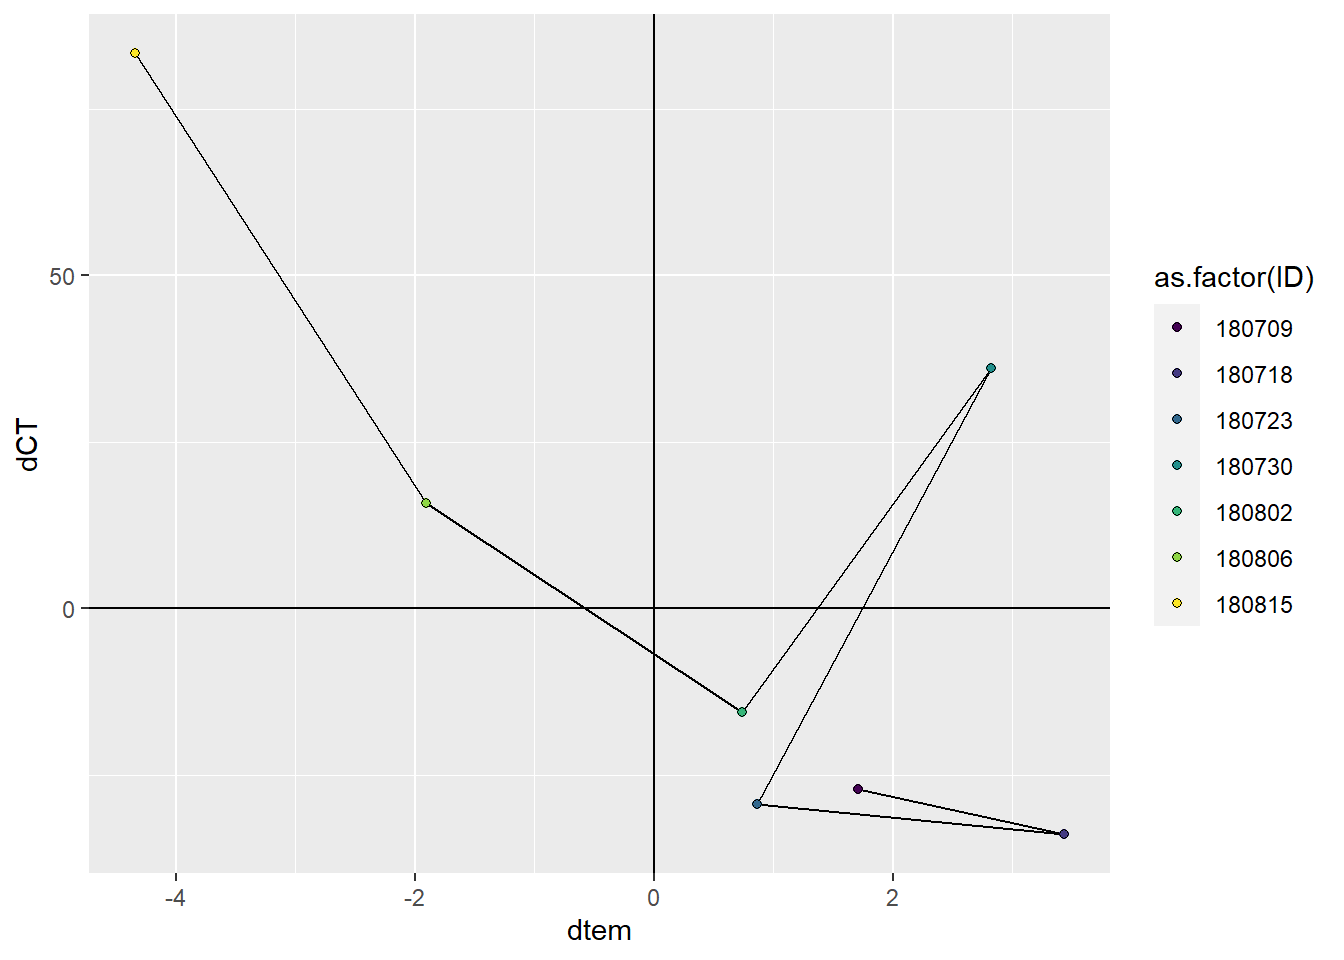
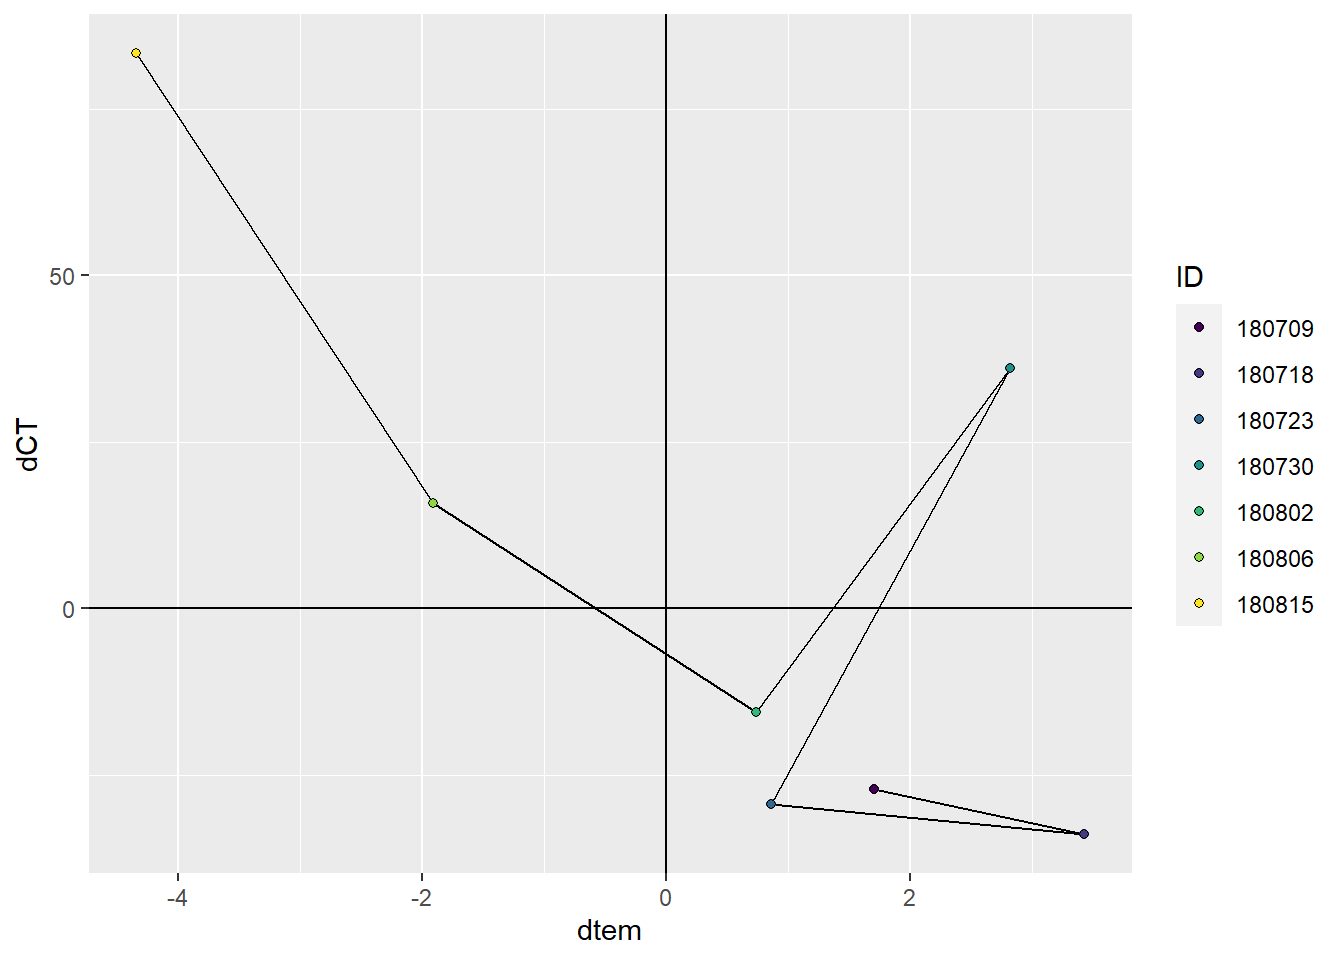
Build site.

diff --git a/docs/BloomSail_dT.html b/docs/BloomSail_dT.html
@@ -560,10 +560,10 @@ This reproducible <a href="http://rmarkdown.rstudio.com">R Markdown</a> analysis
 <div class="panel panel-default">
 <div class="panel-heading">
 <p class="panel-title">
-<a data-toggle="collapse" data-parent="#workflowr-checks" href="#strongRepositoryversionstrongahrefhttpsgithubcomjensdanielmuellerBloomSailtree1ebd01a942fe9692198b910ad2d6bb940cded9bftargetblank1ebd01aa"> <span class="glyphicon glyphicon-ok text-success" aria-hidden="true"></span> <strong>Repository version:</strong> <a href="https://github.com/jens-daniel-mueller/BloomSail/tree/1ebd01a942fe9692198b910ad2d6bb940cded9bf" target="_blank">1ebd01a</a> </a>
+<a data-toggle="collapse" data-parent="#workflowr-checks" href="#strongRepositoryversionstrongahrefhttpsgithubcomjensdanielmuellerBloomSailtreee50dee66c90dc512f8c20fbefe11099cab513fc9targetblanke50dee6a"> <span class="glyphicon glyphicon-ok text-success" aria-hidden="true"></span> <strong>Repository version:</strong> <a href="https://github.com/jens-daniel-mueller/BloomSail/tree/e50dee66c90dc512f8c20fbefe11099cab513fc9" target="_blank">e50dee6</a> </a>
 </p>
 </div>
[2 lines of base64/hex data omitted]
 <div class="panel-body">
 <p>
 Great! You are using Git for version control. Tracking code development and connecting the code version to the results is critical for reproducibility. The version displayed above was the version of the Git repository at the time these results were generated. <br><br> Note that you need to be careful to ensure that all relevant files for the analysis have been committed to Git prior to generating the results (you can use <code>wflow_publish</code> or <code>wflow_git_commit</code>). workflowr only checks the R Markdown file, but you know if there are other scripts or data files that it depends on. Below is the status of the Git repository when the results were generated:
@@ -578,12 +578,6 @@ Ignored files:
     Ignored:    data/TinaV/
     Ignored:    data/_merged_data_files/
     Ignored:    data/_summarized_data_files/
-
-Unstaged changes:
-    Deleted:    analysis/BloomSail_surface.Rmd
-    Deleted:    analysis/MLD.Rmd
-    Deleted:    analysis/data_base.Rmd
-    Deleted:    analysis/gas_exchange.Rmd
 
 </code></pre>
 <p>
@@ -642,9 +636,13 @@ df %&gt;%
   geom_hline(yintercept = 0)+
   geom_vline(xintercept = 0)+
   geom_path()+
-  geom_point(aes(fill=as.factor(ID)), shape=21)+
+  geom_point(aes(fill=ID), shape=21)+
   scale_fill_viridis_d()</code></pre>
 <p><img src="figure/BloomSail_dT.Rmd/CT_and_temperature_changes_in_surface-1.png" width="672" style="display: block; margin: auto;" /></p>
+</div>
+<div id="reconstruction-of-ct-dynamics-at-depth" class="section level1">
+<h1><span class="header-section-number">3</span> Reconstruction of C<sub>T</sub> dynamics at depth</h1>
+<p>The ratio of the incremental change of C<sub>T</sub> with temperature at the seasurface was applied to calculate the C<sub>T</sub> in other water depth based on the known change in temperature.</p>
 <pre class="r"><code>df_factor &lt;- df %&gt;% 
   drop_na() %&gt;% 
   mutate(factor = dCT/dtem,
@@ -659,6 +657,7 @@ df &lt;- df %&gt;%
   mutate(diff_value = dtem * factor) %&gt;% 
   ungroup() %&gt;% 
   select(-factor)</code></pre>
+<p>The reconstructed incremental changes are added up to derive cummulative C<sub>T</sub> changes throughout the water column.</p>
 <pre class="r"><code>df &lt;- df %&gt;% 
   group_by(dep) %&gt;% 
   arrange(date_time_ID) %&gt;% 
@@ -666,8 +665,8 @@ df &lt;- df %&gt;%
          diff_value_daily = diff_value / diff_time,
          cum_value = cumsum(diff_value))</code></pre>
 <div id="profiles-of-incremental-changes" class="section level2">
-<h2><span class="header-section-number">2.1</span> Profiles of incremental changes</h2>
-<p>Changes of seawater parameters at each depth are calculated from one cruise day to the next and divided by the number of days inbetween.</p>
+<h2><span class="header-section-number">3.1</span> Profiles of incremental changes</h2>
+<p>Changes of seawater parameters at each depth were reconstructed from one cruise day to the next and divided by the number of days inbetween.</p>
 <pre class="r"><code>df %&gt;% 
   arrange(dep) %&gt;% 
   ggplot(aes(diff_value_daily, dep, col=ID))+
@@ -681,7 +680,7 @@ df &lt;- df %&gt;%
 <p><img src="figure/BloomSail_dT.Rmd/incremental_changes_profiles-1.png" width="672" style="display: block; margin: auto;" /></p>
 </div>
 <div id="profiles-of-cumulative-changes" class="section level2">
-<h2><span class="header-section-number">2.2</span> Profiles of cumulative changes</h2>
+<h2><span class="header-section-number">3.2</span> Profiles of cumulative changes</h2>
 <p>Cumulative changes of seawater parameters were calculated at each depth relative to the first cruise day on July 5.</p>
 <pre class="r"><code>df %&gt;% 
   arrange(dep) %&gt;% 
@@ -693,7 +692,7 @@ df &lt;- df %&gt;%
   scale_color_viridis_d()+
   labs(x=&quot;Cumulative change of value&quot;)</code></pre>
 <p><img src="figure/BloomSail_dT.Rmd/cumulative_changes_profiles-1.png" width="672" style="display: block; margin: auto;" /></p>
-<p>Cumulative positive and negative changes of seawater parameters were calculated separately at each depth relative to the first cruise day on July 5.</p>
+<p>Reconstructed cumulative positive and negative changes of seawater parameters were calculated separately at each depth relative to the first cruise day on July 5.</p>
 <pre class="r"><code>df &lt;- df %&gt;% 
   mutate(sign = if_else(diff_value &lt; 0, &quot;neg&quot;, &quot;pos&quot;)) %&gt;% 
   group_by(dep, sign) %&gt;%
@@ -716,9 +715,9 @@ df %&gt;%
 </div>
 </div>
 <div id="timeseries" class="section level1">
-<h1><span class="header-section-number">3</span> Timeseries</h1>
+<h1><span class="header-section-number">4</span> Timeseries</h1>
 <div id="incremental-and-cumulative" class="section level2">
-<h2><span class="header-section-number">3.1</span> Incremental and cumulative</h2>
+<h2><span class="header-section-number">4.1</span> Incremental and cumulative</h2>
 <p>Total incremental and cumulative C<sub>T</sub> changes inbetween cruise dates were calculated for 5m depth intervals.</p>
 <pre class="r"><code>NCP &lt;- df %&gt;% 
   mutate(dep = cut(dep, seq(0,30,5))) %&gt;% 
@@ -781,9 +780,9 @@ p_iNCPcum &lt;- NCP %&gt;%
 </div>
 </div>
 <div id="hovmoeller-plots" class="section level1">
-<h1><span class="header-section-number">4</span> Hovmoeller plots</h1>
+<h1><span class="header-section-number">5</span> Hovmoeller plots</h1>
 <div id="daily-changes" class="section level2">
-<h2><span class="header-section-number">4.1</span> Daily changes</h2>
+<h2><span class="header-section-number">5.1</span> Daily changes</h2>
 <pre class="r"><code>bin_CT &lt;- 2.5
 
 df %&gt;% 
